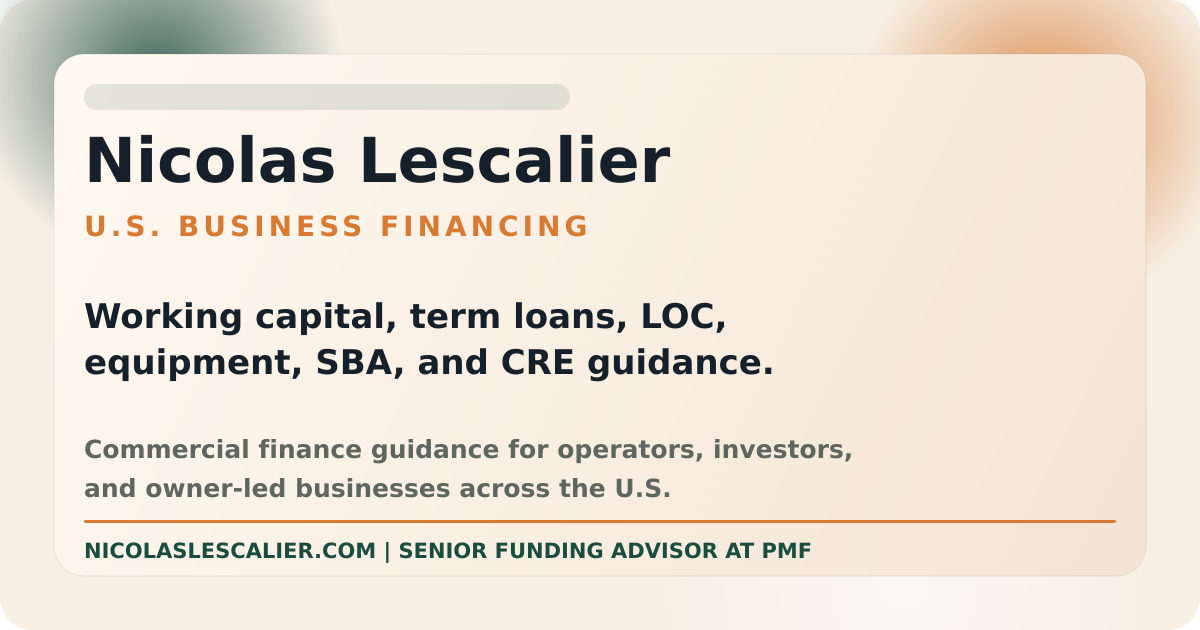
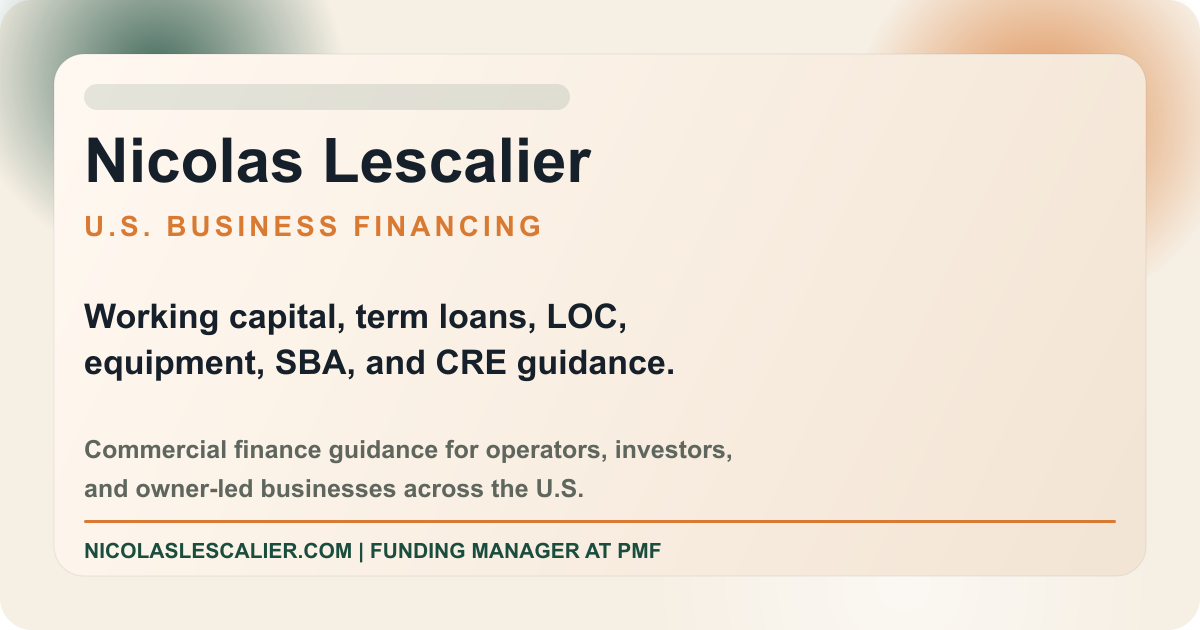
Correct professional title to Funding Manager throughout website

diff --git a/_layouts/default.html b/_layouts/default.html
@@ -82,7 +82,7 @@
         <div class="wrap site-footer__grid">
           <div>
             <p class="site-footer__title">Nicolas Lescalier</p>
-            <p class="site-footer__copy">Senior Funding Advisor at <a href="https://www.pmfus.com/" target="_blank" rel="noopener noreferrer">Premium Merchant Funding</a>, supporting business financing requests in Canada and the United States. Available products and terms depend on location and the transaction.</p>
+            <p class="site-footer__copy">Funding Manager at <a href="https://www.pmfus.com/" target="_blank" rel="noopener noreferrer">Premium Merchant Funding</a>, supporting business financing requests in Canada and the United States. Available products and terms depend on location and the transaction.</p>
             <p class="site-footer__note">Direct funding on select deals, an extensive co-funding network, and clear communication.</p>
           </div>
           <div>
@@ -116,7 +116,7 @@
       </footer>
       <div class="site-disclosure">
         <div class="wrap">
-          <p>Nicolas Lescalier is a Senior Funding Advisor at Premium Merchant Funding. He acts as a direct lender on select deals, works with an extensive network for co-funding, and helps arrange financing through third-party providers. All financing is subject to underwriting and approval and may not be available in every province, territory, or state, or for every business. Terms, costs, and timing vary by provider and applicant. Website calculators and examples are educational estimates, not offers or commitments to fund.</p>
+          <p>Nicolas Lescalier is a Funding Manager at Premium Merchant Funding. He acts as a direct lender on select deals, works with an extensive network for co-funding, and helps arrange financing through third-party providers. All financing is subject to underwriting and approval and may not be available in every province, territory, or state, or for every business. Terms, costs, and timing vary by provider and applicant. Website calculators and examples are educational estimates, not offers or commitments to fund.</p>
         </div>
       </div>
     </div>

diff --git a/_includes/structured_data.html b/_includes/structured_data.html
@@ -6,8 +6,8 @@
       "@type": "Person",
       "@id": "https://nicolaslescalier.com/#person",
       "name": "Nicolas Lescalier",
-      "description": "Senior Funding Advisor offering direct funding on select deals, access to an extensive co-funding network, and guidance on business financing in Canada and the United States.",
-      "jobTitle": "Senior Funding Advisor",
+      "description": "Funding Manager offering direct funding on select deals, access to an extensive co-funding network, and guidance on business financing in Canada and the United States.",
+      "jobTitle": "Funding Manager",
       "url": "https://nicolaslescalier.com",
       "areaServed": "US",
       "worksFor": {

diff --git a/about-nicolas-lescalier-us.md b/about-nicolas-lescalier-us.md
@@ -1,6 +1,6 @@
 ---
 title: "About Nicolas Lescalier"
-description: "Learn how Senior Funding Advisor Nicolas Lescalier helps business owners in Canada and the U.S. compare commercial financing structures and prepare stronger requests."
+description: "Learn how Funding Manager Nicolas Lescalier helps business owners in Canada and the U.S. compare commercial financing structures and prepare stronger requests."
 permalink: "/about-nicolas-lescalier-us/"
 layout: default
 breadcrumb_title: About
@@ -13,7 +13,7 @@ redirect_from:
   <div class="panel">
     <p class="eyebrow">About Nicolas Lescalier</p>
     <h1>Direct guidance from Nicolas Lescalier.</h1>
-    <p>I am a Senior Funding Advisor at <a href="https://www.pmfus.com/" target="_blank" rel="noopener noreferrer">Premium Merchant Funding</a>. I work with business owners in Canada and the United States and commercial real estate borrowers who need practical help choosing a realistic financing structure.</p>
+    <p>I am a Funding Manager at <a href="https://www.pmfus.com/" target="_blank" rel="noopener noreferrer">Premium Merchant Funding</a>. I work with business owners in Canada and the United States and commercial real estate borrowers who need practical help choosing a realistic financing structure.</p>
     <p>I act as a direct lender on select deals and work with an extensive network of funding partners when co-funding is appropriate. I also help borrowers prepare requests and compare options from other providers, with attention to structure, cost, and repayment.</p>
     <p>My work spans working capital loans, lines of credit, term loans, equipment financing, invoice-driven solutions, SBA paths, bridge financing, and broader commercial mortgage scenarios.</p>
   </div>
@@ -31,7 +31,7 @@ redirect_from:
 <section class="section">
   <div class="identity-card">
     <p class="eyebrow">Verify and contact</p>
-    <p class="identity-card__role">Senior Funding Advisor | Premium Merchant Funding</p>
+    <p class="identity-card__role">Funding Manager | Premium Merchant Funding</p>
     <p>More than five years of commercial and alternative-finance experience across operating-business and real-estate scenarios. Product availability, approval, and terms depend on the transaction and the participating funding providers.</p>
     <p class="identity-card__links">
       <a href="https://www.pmfus.com/" target="_blank" rel="noopener noreferrer">PMF website</a>

diff --git a/terms-and-conditions.md b/terms-and-conditions.md
@@ -15,7 +15,7 @@ breadcrumb_title: Terms and Conditions
 <div class="legal-content">
   <section>
     <h2>1. Financing role</h2>
-    <p>Nicolas Lescalier is a Senior Funding Advisor at Premium Merchant Funding (“PMF”). He acts as a direct lender on select deals, works with an extensive network for co-funding, and helps arrange financing through third-party providers. Neither this website nor a conversation with Nicolas creates a commitment to lend. Financing, if available, is subject to the underwriting, approval, pricing, and documentation requirements of the participating lenders, funders, banks, or other providers.</p>
+    <p>Nicolas Lescalier is a Funding Manager at Premium Merchant Funding (“PMF”). He acts as a direct lender on select deals, works with an extensive network for co-funding, and helps arrange financing through third-party providers. Neither this website nor a conversation with Nicolas creates a commitment to lend. Financing, if available, is subject to the underwriting, approval, pricing, and documentation requirements of the participating lenders, funders, banks, or other providers.</p>
     <p>Nicolas and PMF may receive compensation from a financing provider, from transaction proceeds, or as otherwise disclosed in connection with a completed transaction.</p>
   </section>
 

diff --git a/privacy-policy.md b/privacy-policy.md
@@ -15,7 +15,7 @@ breadcrumb_title: Privacy Policy
 <div class="legal-content">
   <section>
     <h2>1. Who handles the information</h2>
-    <p>Nicolas Lescalier operates this website in his professional capacity as a Senior Funding Advisor at Premium Merchant Funding (“PMF”). Nicolas and PMF may use submitted information to respond to requests, evaluate possible financing paths, and communicate with appropriate third-party financing providers.</p>
+    <p>Nicolas Lescalier operates this website in his professional capacity as a Funding Manager at Premium Merchant Funding (“PMF”). Nicolas and PMF may use submitted information to respond to requests, evaluate possible financing paths, and communicate with appropriate third-party financing providers.</p>
     <p>Privacy questions can be sent to <a href="mailto:nlescalier@pmfus.com">nlescalier@pmfus.com</a>.</p>
   </section>
 

diff --git a/why-us-clients-trust-nicolas.md b/why-us-clients-trust-nicolas.md
@@ -85,7 +85,7 @@ breadcrumb_title: Why Clients Trust Nicolas
     <article class="service-card">
       <span class="card-label">Role</span>
       <h3>A clear funding role</h3>
-      <p>Nicolas is a Senior Funding Advisor at <a href="https://www.pmfus.com/" target="_blank" rel="noopener noreferrer">Premium Merchant Funding</a>. He acts as a direct lender on select deals and works with an extensive network for co-funding. Financing is subject to underwriting and approval.</p>
+      <p>Nicolas is a Funding Manager at <a href="https://www.pmfus.com/" target="_blank" rel="noopener noreferrer">Premium Merchant Funding</a>. He acts as a direct lender on select deals and works with an extensive network for co-funding. Financing is subject to underwriting and approval.</p>
     </article>
     <article class="service-card">
       <span class="card-label">Contact</span>

diff --git a/reviews-us-funding.md b/reviews-us-funding.md
@@ -74,7 +74,7 @@ breadcrumb_title: Client Experience
   </div>
   <div class="proof-card">
     <p class="eyebrow">Important role disclosure</p>
-    <p>Nicolas Lescalier is a Senior Funding Advisor at <a href="https://www.pmfus.com/" target="_blank" rel="noopener noreferrer">Premium Merchant Funding</a>. He acts as a direct lender on select deals and works with an extensive network for co-funding. Financing is subject to underwriting and approval.</p>
+    <p>Nicolas Lescalier is a Funding Manager at <a href="https://www.pmfus.com/" target="_blank" rel="noopener noreferrer">Premium Merchant Funding</a>. He acts as a direct lender on select deals and works with an extensive network for co-funding. Financing is subject to underwriting and approval.</p>
     <p><a href="/about-nicolas-lescalier-us/">Review Nicolas’s role and approach</a>.</p>
   </div>
 </section>

diff --git a/index.md b/index.md
@@ -37,7 +37,7 @@ faq:
 <section class="section">
   <div class="identity-card">
     <p class="eyebrow">Professional role</p>
-    <p class="identity-card__role">Nicolas Lescalier — Senior Funding Advisor at Premium Merchant Funding</p>
+    <p class="identity-card__role">Nicolas Lescalier — Funding Manager at Premium Merchant Funding</p>
     <p>I fund select deals directly and work with an extensive network of funding partners when co-funding is appropriate. I also help business owners compare financing options and prepare requests for other providers. Every deal is subject to underwriting and approval.</p>
     <p class="identity-card__links">
       <a href="https://www.pmfus.com/" target="_blank" rel="noopener noreferrer">Premium Merchant Funding</a>

diff --git a/contact.md b/contact.md
@@ -91,7 +91,7 @@ breadcrumb_title: Contact
   </div>
   <aside class="contact-card">
     <h2>Contact Nicolas</h2>
-    <p>Senior Funding Advisor at Premium Merchant Funding.</p>
+    <p>Funding Manager at Premium Merchant Funding.</p>
     <p class="link-stack"><a href="mailto:nlescalier@pmfus.com">nlescalier@pmfus.com</a><a href="https://calendly.com/nlescalier/funding" target="_blank" rel="noopener noreferrer">Book a call</a><a href="/apply/">Start a financing application</a><a href="/application-checklist/">Application checklist</a><a href="https://www.linkedin.com/in/nicolaslescalier/" target="_blank" rel="noopener noreferrer">LinkedIn profile</a></p>
   </aside>
 </section>
